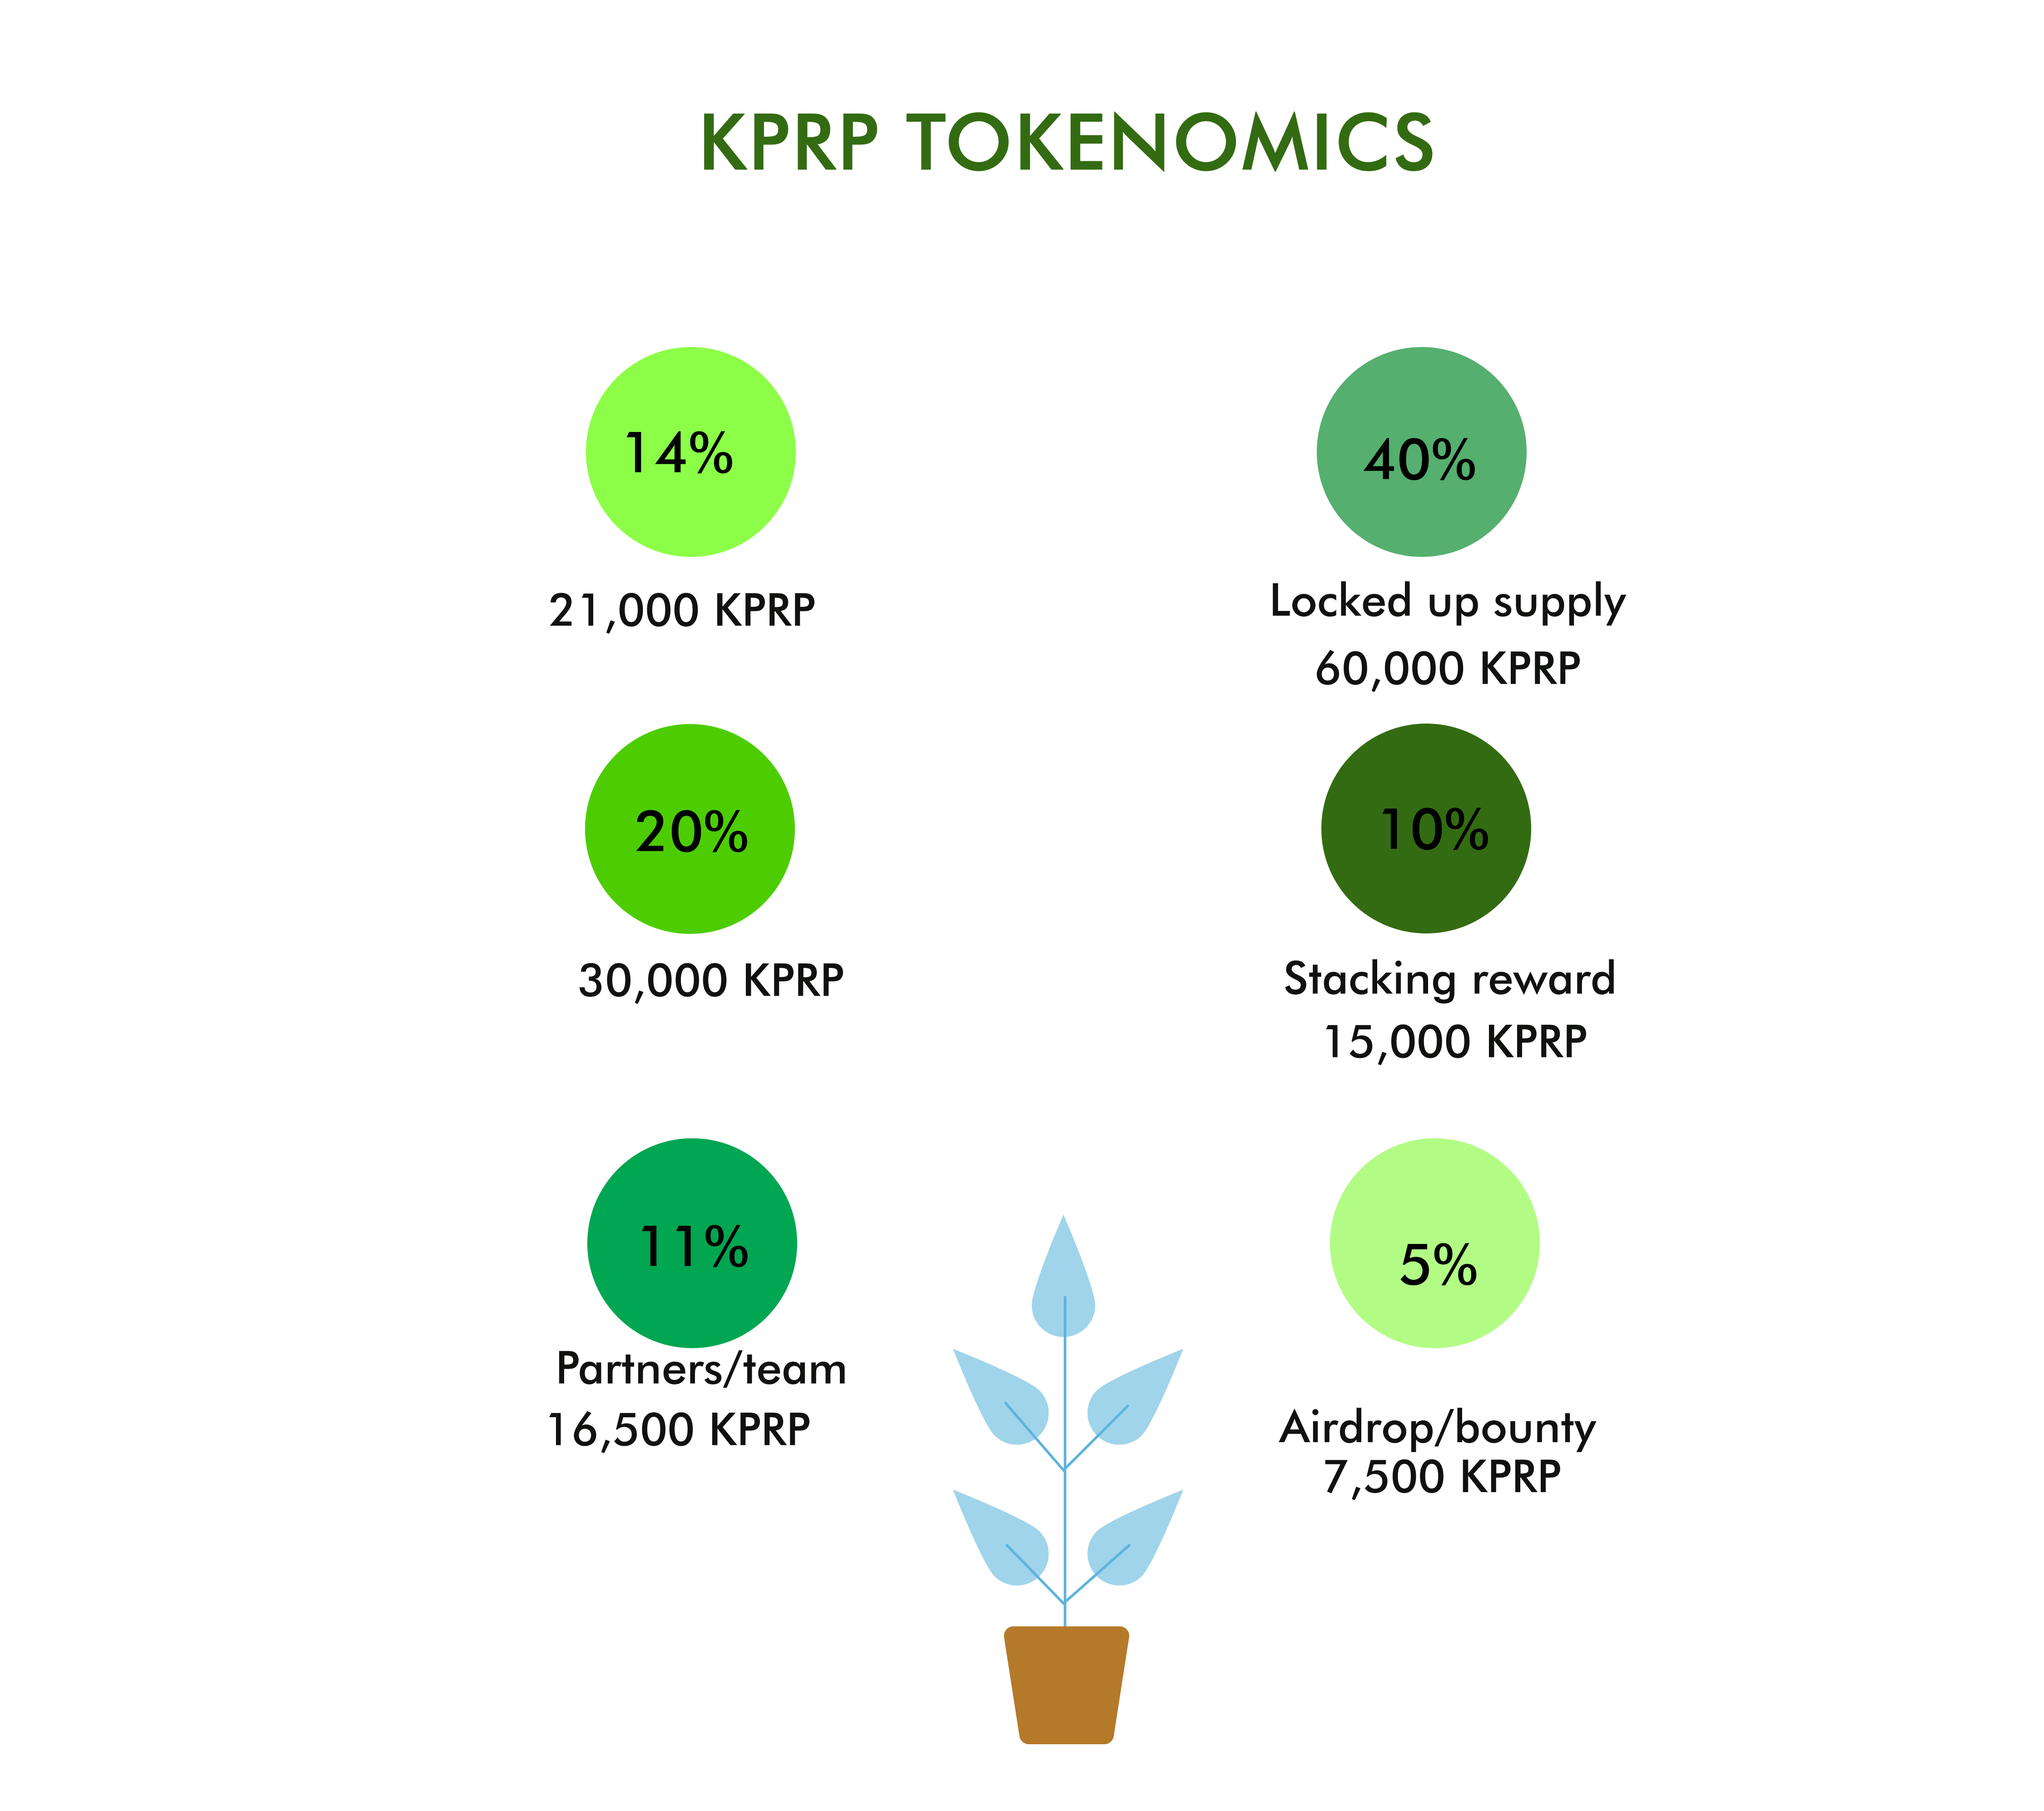
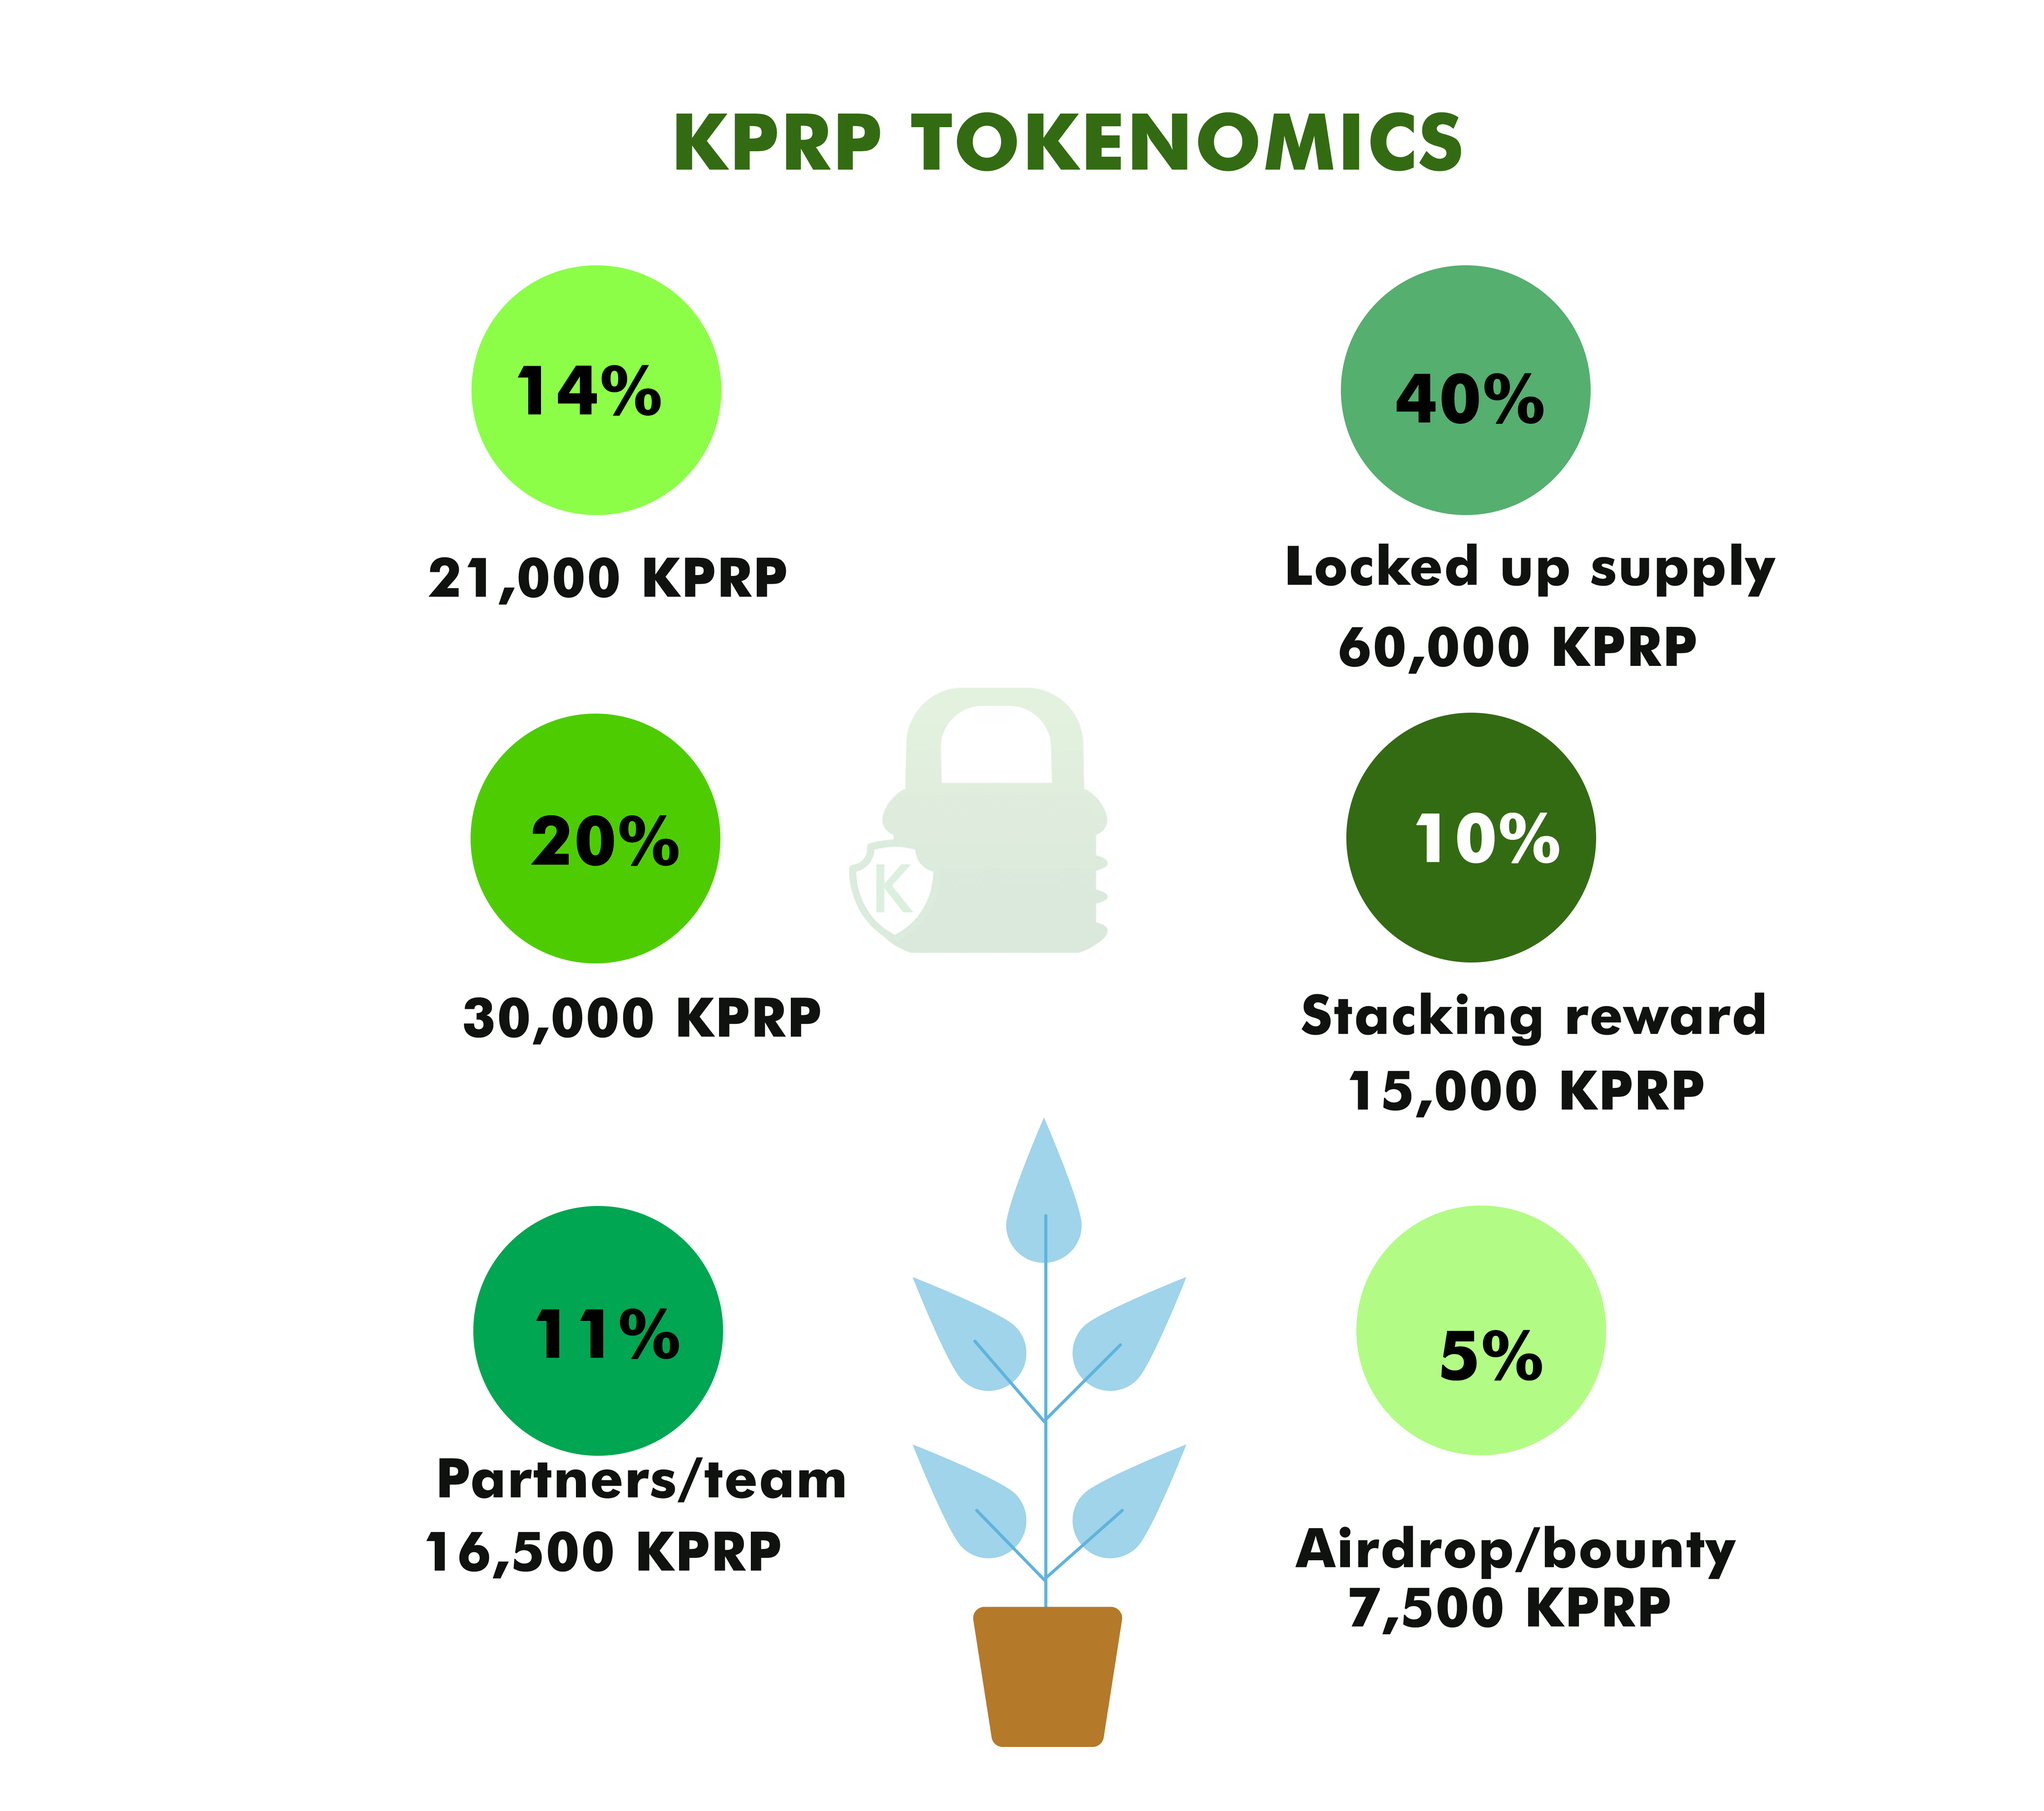
update

diff --git a/resources/views/welcome.blade.php b/resources/views/welcome.blade.php
@@ -290,7 +290,7 @@
                 <div class="tab-content animated" data-animate="fadeInUp" data-delay=".3">
                     <div class="tab-pane animate  active show" id="tab-dist">
                         <div class="tkn-crt">
-                            <div class="tkn-crt-img"><img src="{{ asset('images') }}/zinnia/chart-zinnia-a.png"
+                            <div class="tkn-crt-img"><img src="{{ asset('images') }}/zinnia/kprp-token.png"
                                     alt="chart"></div>
                             <ul class="tkn-crt-lst">
                                 {{-- #346c15
